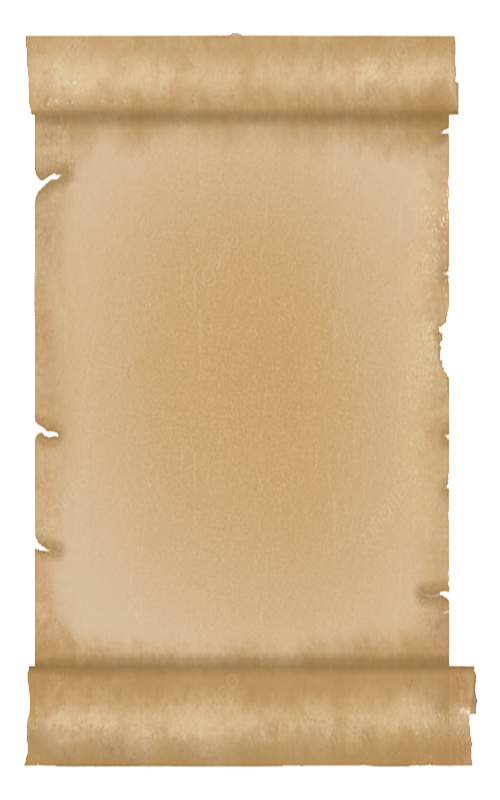
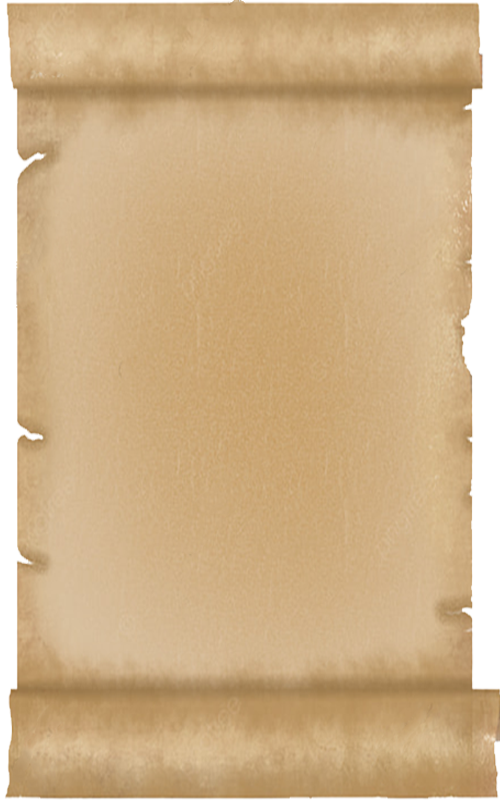
a

diff --git a/css/oriental note-main page.css b/css/oriental note-main page.css
@@ -421,8 +421,6 @@ body{
     height: 700px;
     margin: 0 auto;
     z-index: 1;
-    /* background-repeat: no-repeat;
-    background-size: cover; */
     /* outline:1px solid red; */
 }
 .section1_inner{
@@ -441,7 +439,6 @@ body{
 
 .section1_left{
     width: 50%;
-    /* height: 500px; */
     height: auto;
     padding-bottom: 40%;
     z-index: 1;
@@ -453,7 +450,6 @@ body{
     margin-left: 40px;
     margin-top: 80px;
     z-index: 1;
-    
     /* outline:1px solid red; */
     
 }
@@ -485,16 +481,19 @@ body{
     color:#727272;
     z-index: 1;
 }
+
 @media (max-width:767px){
   .section1{
-    height: 850px;
+    width: 500px;
+    height: 800px;
+    margin-bottom: 120px;
   }
   .section1_inner{
     background-image: url(../img/orientalnotepicture/parchment.png);
     width: 500px;
-    height: 700px;
+    height: 800px;
     display: block;
-    margin-bottom: 200px;
+    margin-bottom: 120px;
   }
   .section1_left{
     width: 500px;
@@ -504,7 +503,7 @@ body{
     display: block;
     width: 50%;
     margin: 0 auto;
-    margin-top: 90px;
+    margin-top: 110px;
   }
   .section1_right{
     width: 500px;
@@ -519,11 +518,41 @@ body{
     display: block;
     margin: 0 auto;
   }
-    
-  
-
-
 }
+@media (max-width:500px){
+  .section1{
+    width: 300px;
+    height: 800px;
+  }
+  
+  .section1_inner{
+    display: block;
+    background-image: url(../img/orientalnotepicture/parchment-min.png);
+    background-size: 100% auto;
+    width: 300px;
+    height: 800px;
+  }
+  .section1_left{
+    width:300px;
+    height: 200px;
+  
+  }
+  .section1_left img{
+    
+  }
+  .section1_right{
+    width: 300px;
+    
+  }
+  .section1_right h2{
+    width:300px;
+    
+  }
+  .section1_right p{
+    margin-top: 60px;
+  }
+}
+
 .footer{
     width: 100% ;
     height: 140px;

diff --git a/css/model.css b/css/model.css
@@ -1,7 +1,7 @@
 @import url('reset.css');
 *{
     box-sizing: border-box;
-    /* outline: 1px solid red; */
+    outline: 1px solid red;
 }
 /* ---------------header-------------- */
 .header{
@@ -49,7 +49,7 @@
     width: 120px;
     position: absolute;
     left: 0;
-    top: 40px;
+    top: 70px;
     display: none;
 }
 .header ol li{
